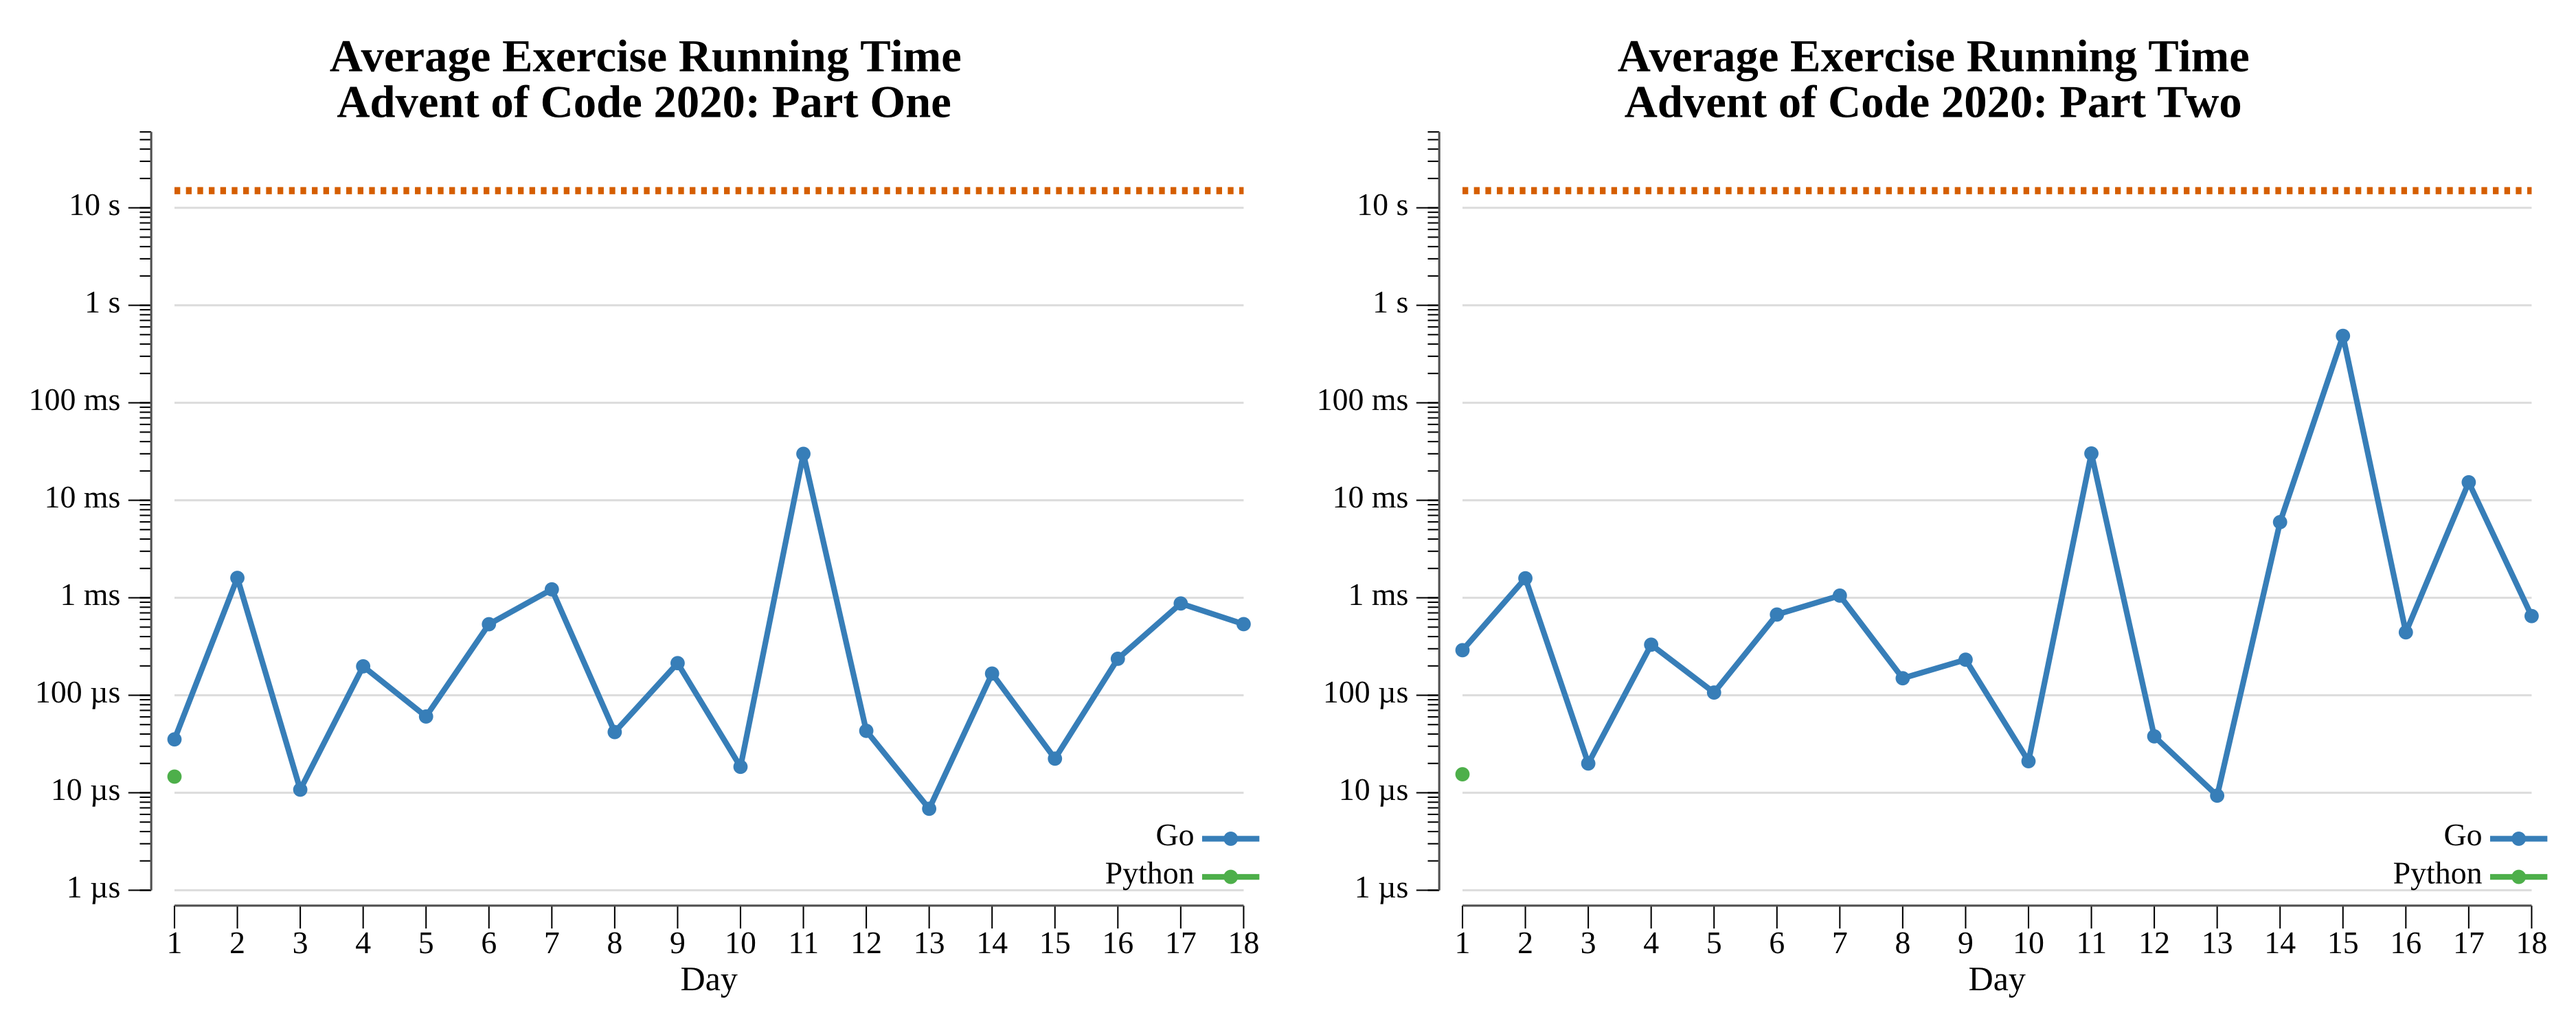
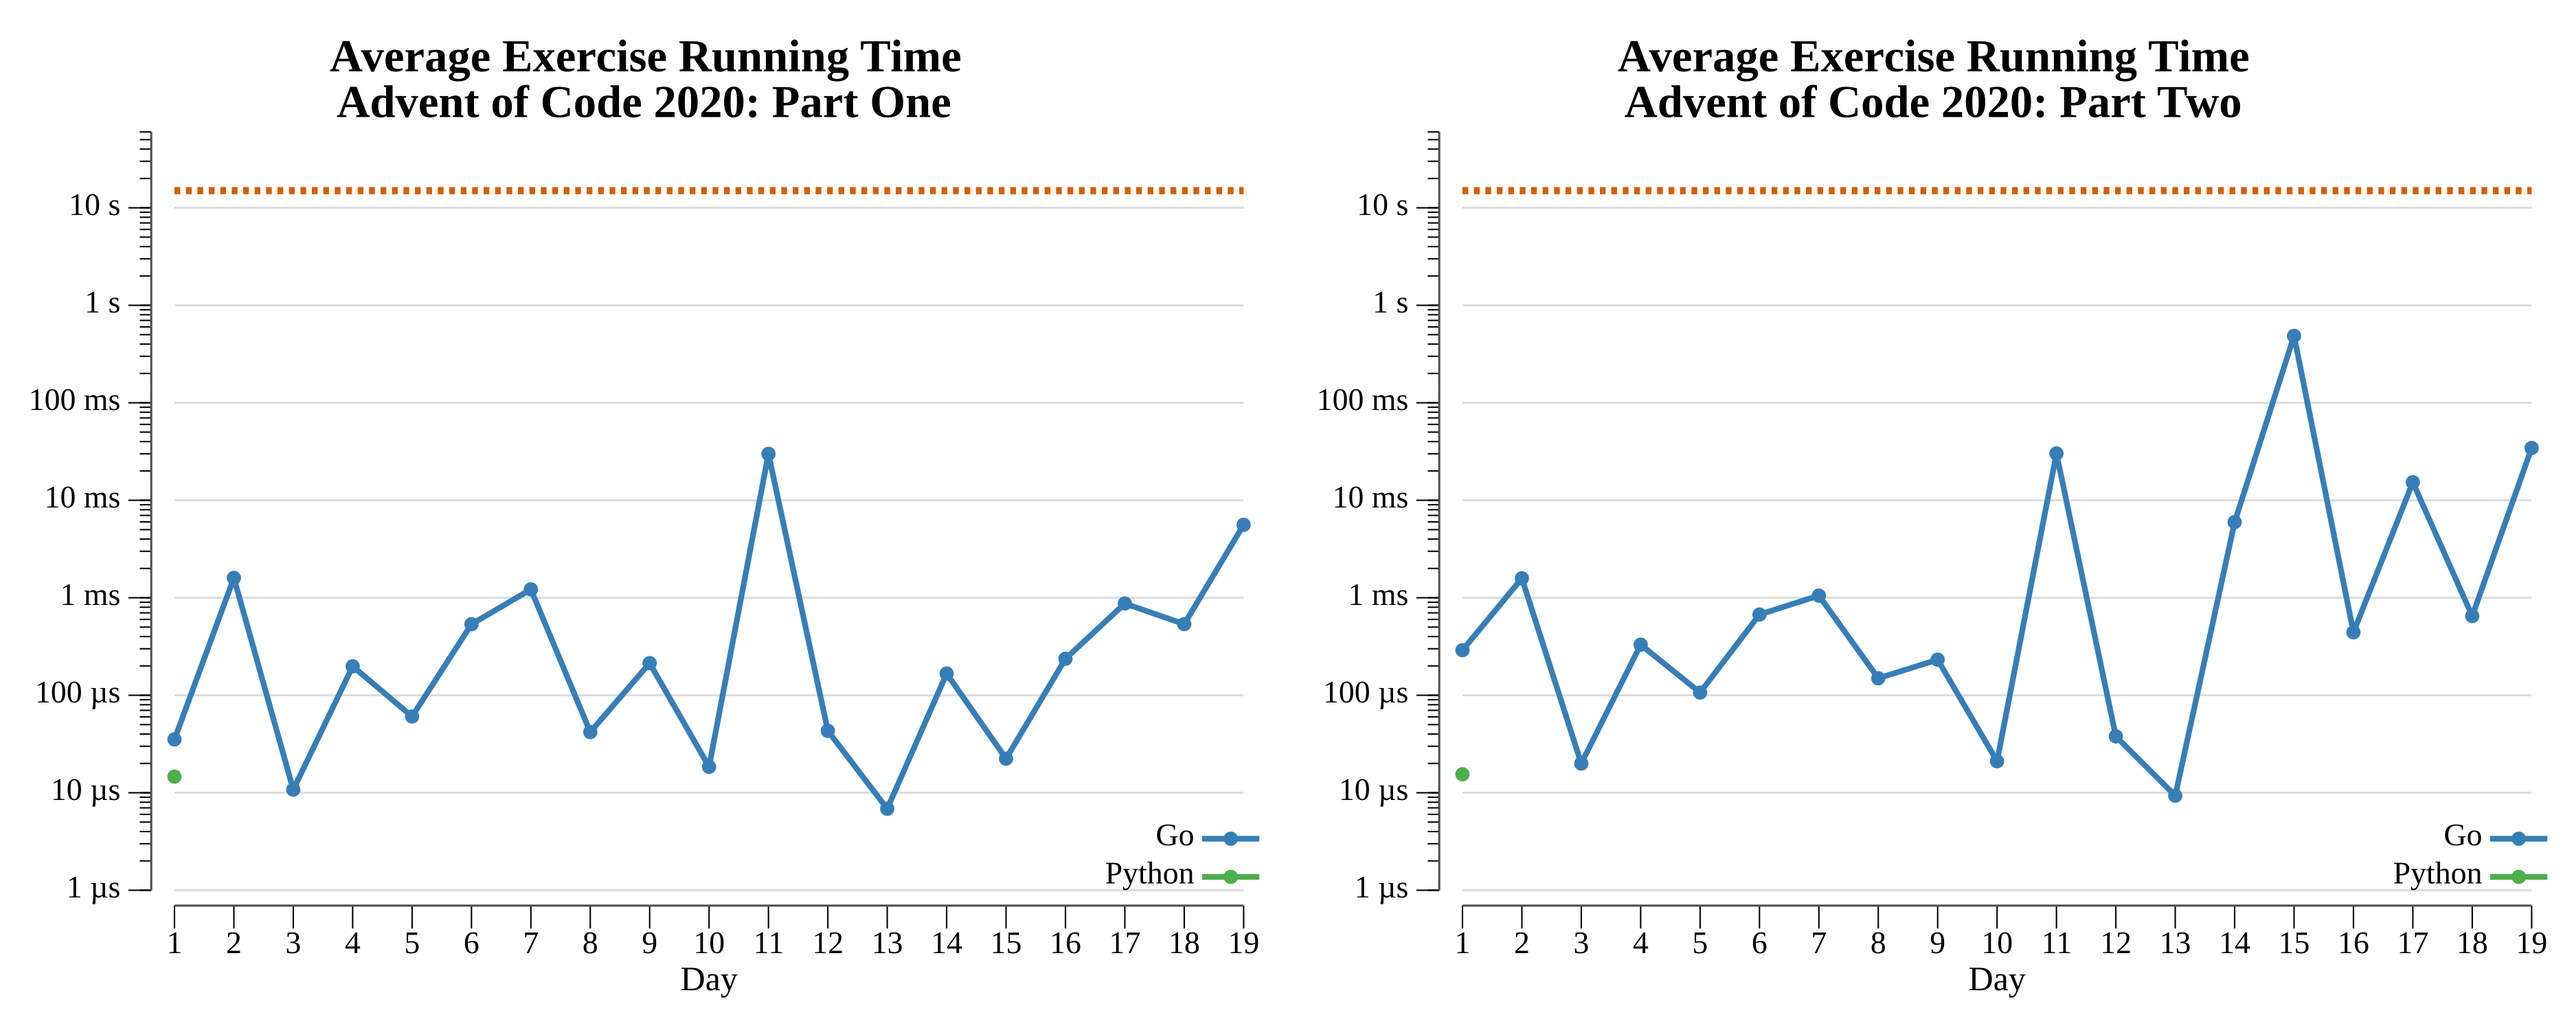
2020 day 19

diff --git a/exercises/2020/19-monsterMessages/go/exercise.go b/exercises/2020/19-monsterMessages/go/exercise.go
@@ -1,0 +1,146 @@
+package exercises
+
+import (
+	"fmt"
+	"strconv"
+	"strings"
+
+	"github.com/asphaltbuffet/advent-of-code/internal/common"
+)
+
+// Exercise for Advent of Code 2020 day 19.
+type Exercise struct {
+	common.BaseExercise
+}
+
+// rule is one grammar rule: either a literal character, or a set of alternative
+// sequences of sub-rule IDs.
+type rule struct {
+	literal byte
+	isLit   bool
+	alts    [][]int
+}
+
+type grammar map[int]rule
+
+func parse(instr string) (grammar, []string, error) {
+	blocks := strings.SplitN(strings.TrimRight(instr, "\n"), "\n\n", 2)
+	if len(blocks) != 2 {
+		return nil, nil, fmt.Errorf("expected two blocks")
+	}
+
+	g := grammar{}
+	for _, line := range strings.Split(blocks[0], "\n") {
+		idStr, body, ok := strings.Cut(line, ": ")
+		if !ok {
+			continue
+		}
+		id, err := strconv.Atoi(idStr)
+		if err != nil {
+			return nil, nil, fmt.Errorf("rule id %q: %w", idStr, err)
+		}
+		if strings.HasPrefix(body, `"`) {
+			g[id] = rule{literal: body[1], isLit: true}
+			continue
+		}
+		var r rule
+		for _, alt := range strings.Split(body, " | ") {
+			var seq []int
+			for _, f := range strings.Fields(alt) {
+				n, err := strconv.Atoi(f)
+				if err != nil {
+					return nil, nil, fmt.Errorf("rule ref %q: %w", f, err)
+				}
+				seq = append(seq, n)
+			}
+			r.alts = append(r.alts, seq)
+		}
+		g[id] = r
+	}
+
+	messages := strings.Split(strings.TrimSpace(blocks[1]), "\n")
+	return g, messages, nil
+}
+
+// match returns the set of end positions reachable by matching rule id against
+// s starting at pos. A message matches rule 0 iff len(s) is reachable from pos 0.
+func match(g grammar, id int, s string, pos int) []int {
+	r := g[id]
+	if r.isLit {
+		if pos < len(s) && s[pos] == r.literal {
+			return []int{pos + 1}
+		}
+		return nil
+	}
+
+	var ends []int
+	for _, seq := range r.alts {
+		// Positions reachable after consuming this sequence, threaded left to right.
+		cur := []int{pos}
+		for _, sub := range seq {
+			var next []int
+			for _, p := range cur {
+				next = append(next, match(g, sub, s, p)...)
+			}
+			cur = next
+			if len(cur) == 0 {
+				break
+			}
+		}
+		ends = append(ends, cur...)
+	}
+	return ends
+}
+
+// matches reports whether s fully matches rule 0.
+func matches(g grammar, s string) bool {
+	for _, end := range match(g, 0, s, 0) {
+		if end == len(s) {
+			return true
+		}
+	}
+	return false
+}
+
+// One counts messages that completely match rule 0.
+func (e Exercise) One(instr string) (any, error) {
+	g, messages, err := parse(instr)
+	if err != nil {
+		return nil, err
+	}
+
+	count := 0
+	for _, m := range messages {
+		if matches(g, m) {
+			count++
+		}
+	}
+	return fmt.Sprintf("%d", count), nil
+}
+
+// Two overrides rules 8 and 11 with their recursive forms, then counts matches.
+// The set-of-positions matcher handles the recursion directly. If the grammar has
+// no rule 8/11 (the small example), the overrides are harmless no-ops relative to
+// what those ids already were, and the answer equals part one.
+func (e Exercise) Two(instr string) (any, error) {
+	g, messages, err := parse(instr)
+	if err != nil {
+		return nil, err
+	}
+
+	// Only rewrite if these rules exist (the real input and large example).
+	if _, ok := g[8]; ok {
+		g[8] = rule{alts: [][]int{{42}, {42, 8}}}
+	}
+	if _, ok := g[11]; ok {
+		g[11] = rule{alts: [][]int{{42, 31}, {42, 11, 31}}}
+	}
+
+	count := 0
+	for _, m := range messages {
+		if matches(g, m) {
+			count++
+		}
+	}
+	return fmt.Sprintf("%d", count), nil
+}

diff --git a/exercises/2020/19-monsterMessages/go/vis.go b/exercises/2020/19-monsterMessages/go/vis.go
@@ -1,0 +1,97 @@
+package exercises
+
+import (
+	"fmt"
+	"os"
+	"path/filepath"
+	"strings"
+)
+
+// Vis shows how making rules 8 and 11 recursive (Part Two) enlarges the set of
+// messages that match rule 0. Each message is classified: matched under both rule
+// sets, matched only after the Part Two rewrite, or matched by neither. The
+// stacked bar and counts make clear that Part Two's matches are a strict superset
+// of Part One's — the recursive rules only ever accept more. Groups use
+// colorblind-safe colors ordered by brightness and every segment is labeled, so
+// the chart reads in grayscale.
+func (e Exercise) Vis(instr, outdir string) error {
+	g1, messages, err := parse(instr)
+	if err != nil {
+		return err
+	}
+	// Part Two grammar: a copy with 8 and 11 rewritten.
+	g2, _, _ := parse(instr)
+	if _, ok := g2[8]; ok {
+		g2[8] = rule{alts: [][]int{{42}, {42, 8}}}
+	}
+	if _, ok := g2[11]; ok {
+		g2[11] = rule{alts: [][]int{{42, 31}, {42, 11, 31}}}
+	}
+
+	var both, twoOnly, neither int
+	for _, m := range messages {
+		m1 := matches(g1, m)
+		m2 := matches(g2, m)
+		switch {
+		case m1 && m2:
+			both++
+		case m2:
+			twoOnly++
+		default:
+			neither++
+		}
+	}
+	total := len(messages)
+	p1total := both
+	p2total := both + twoOnly
+
+	const (
+		W    = 820
+		H    = 360
+		barX = 60
+		barY = 90
+		barW = 700
+		barH = 64
+	)
+
+	type seg struct {
+		label string
+		count int
+		col   string
+	}
+	segs := []seg{
+		{"matched by both rule sets", both, "#F0E442"},          // yellow (bright)
+		{"matched only after part 2 rewrite", twoOnly, "#E69F00"}, // orange
+		{"matched by neither", neither, "#0072B2"},               // blue (dark)
+	}
+
+	var sb strings.Builder
+	fmt.Fprintf(&sb, `<svg xmlns="http://www.w3.org/2000/svg" width="%d" height="%d" viewBox="0 0 %d %d" font-family="monospace">`, W, H, W, H)
+	fmt.Fprintf(&sb, `<rect width="%d" height="%d" fill="#111418"/>`, W, H)
+	fmt.Fprintf(&sb, `<text x="%d" y="40" fill="#e8ecf4" font-size="16">Monster Messages: %d messages under both rule sets</text>`, barX, total)
+
+	x := barX
+	for _, s := range segs {
+		w := barW * s.count / total
+		fmt.Fprintf(&sb, `<rect x="%d" y="%d" width="%d" height="%d" fill="%s"/>`, x, barY, w, barH, s.col)
+		if w > 30 {
+			fmt.Fprintf(&sb, `<text x="%d" y="%d" fill="#0d0f18" font-size="13" font-weight="bold" text-anchor="middle">%d</text>`, x+w/2, barY+barH/2+5, s.count)
+		}
+		x += w
+	}
+
+	ly := barY + barH + 44
+	for i, s := range segs {
+		yy := ly + i*30
+		fmt.Fprintf(&sb, `<rect x="%d" y="%d" width="16" height="16" fill="%s"/>`, barX, yy-13, s.col)
+		fmt.Fprintf(&sb, `<text x="%d" y="%d" fill="#e8ecf4" font-size="13">%s</text>`, barX+26, yy, s.label)
+		fmt.Fprintf(&sb, `<text x="%d" y="%d" fill="#c8d0dc" font-size="13" text-anchor="end">%d</text>`, barX+400, yy, s.count)
+	}
+
+	sy := ly + 3*30 + 22
+	fmt.Fprintf(&sb, `<text x="%d" y="%d" fill="#F0E442" font-size="14">Part 1 matches: %d</text>`, barX, sy, p1total)
+	fmt.Fprintf(&sb, `<text x="%d" y="%d" fill="#E69F00" font-size="14">Part 2 matches: %d  (superset of part 1)</text>`, barX, sy+24, p2total)
+
+	sb.WriteString(`</svg>`)
+	return os.WriteFile(filepath.Join(outdir, "monster-messages.svg"), []byte(sb.String()), 0o600)
+}

diff --git a/exercises/2020/19-monsterMessages/README.md b/exercises/2020/19-monsterMessages/README.md
@@ -1,0 +1,52 @@
+# [Day 19: Monster Messages](https://adventofcode.com/2020/day/19)
+
+<!-- These are helper text to make formatting the yearly readme consistent and easier...
+
+[Day 19: Monster Messages][rm19]
+[Go][go19]
+
+[rm19]: 19-monsterMessages/README.md
+[go19]: 19-monsterMessages/go
+
+-->
+
+## Notes
+
+A grammar of numbered rules (literals, sequences, and `|` alternations) matched
+against messages. The matcher `match(id, s, pos)` returns the *set* of end
+positions reachable after matching a rule — returning a set, not a single bool, is
+what makes alternations and Part Two's recursion work. A message matches rule 0
+iff `len(s)` is among the ends reachable from position 0.
+
+- **Part One** counts messages fully matching rule 0.
+- **Part Two** rewrites rule 8 to `42 | 42 8` (one or more 42s) and rule 11 to
+  `42 31 | 42 11 31` (equal counts of 42 then 31). The same set-based matcher
+  handles the recursion; the accepted messages become a strict superset of Part
+  One's.
+
+## Go
+
+```text
+────────────────────────────────────────
+─    2020 Day 19: Monster Messages     ─
+────────────────────────────────────────
+
+Solving (Go)…
+1.0:  PASS             6.105ms
+2.0:  PASS            39.153ms
+```
+
+## Visualization
+
+How the recursive rewrite enlarges the matched set. Each of the 389 messages is
+classified as matched by both rule sets, matched only after the Part Two rewrite,
+or matched by neither. The stacked bar shows Part Two's matches (162 + 105 = 267)
+are a strict superset of Part One's (162) — the recursive rules only ever accept
+more. Segments use colorblind-safe colors ordered by brightness and every one is
+labeled, so the chart reads in grayscale.
+
+![Match breakdown across rule sets](monster-messages.svg)
+
+## Run Times
+
+![Day 19 run-time graphs](run-times.png)

diff --git a/exercises/2020/README.md b/exercises/2020/README.md
@@ -24,7 +24,7 @@
 | [Day 16: Ticket Translation][rm_16] |  ★ ★  | [Go][go_16] |
 | [Day 17: Conway Cubes][rm_17] |  ★ ★  | [Go][go_17] |
 | [Day 18: Operation Order][rm_18] |  ★ ★  | [Go][go_18] |
-| 19                           |  ☆ ☆  |            |
+| [Day 19: Monster Messages][rm_19] |  ★ ★  | [Go][go_19] |
 | 20                           |  ☆ ☆  |            |
 | 21                           |  ☆ ☆  |            |
 | 22                           |  ☆ ☆  |            |
@@ -68,6 +68,8 @@
 [go_17]: 17-conwayCubes/go
 [rm_18]: 18-operationOrder/README.md
 [go_18]: 18-operationOrder/go
+[rm_19]: 19-monsterMessages/README.md
+[go_19]: 19-monsterMessages/go
 
 ## 2020 Run Times
 
